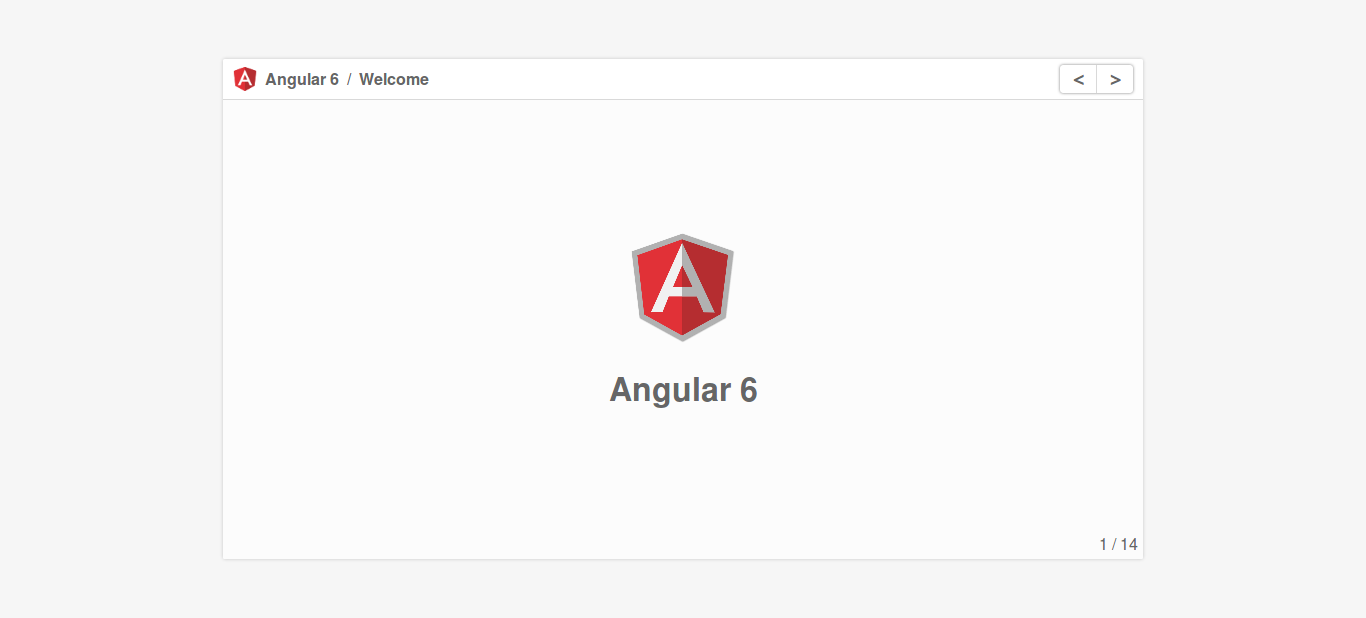
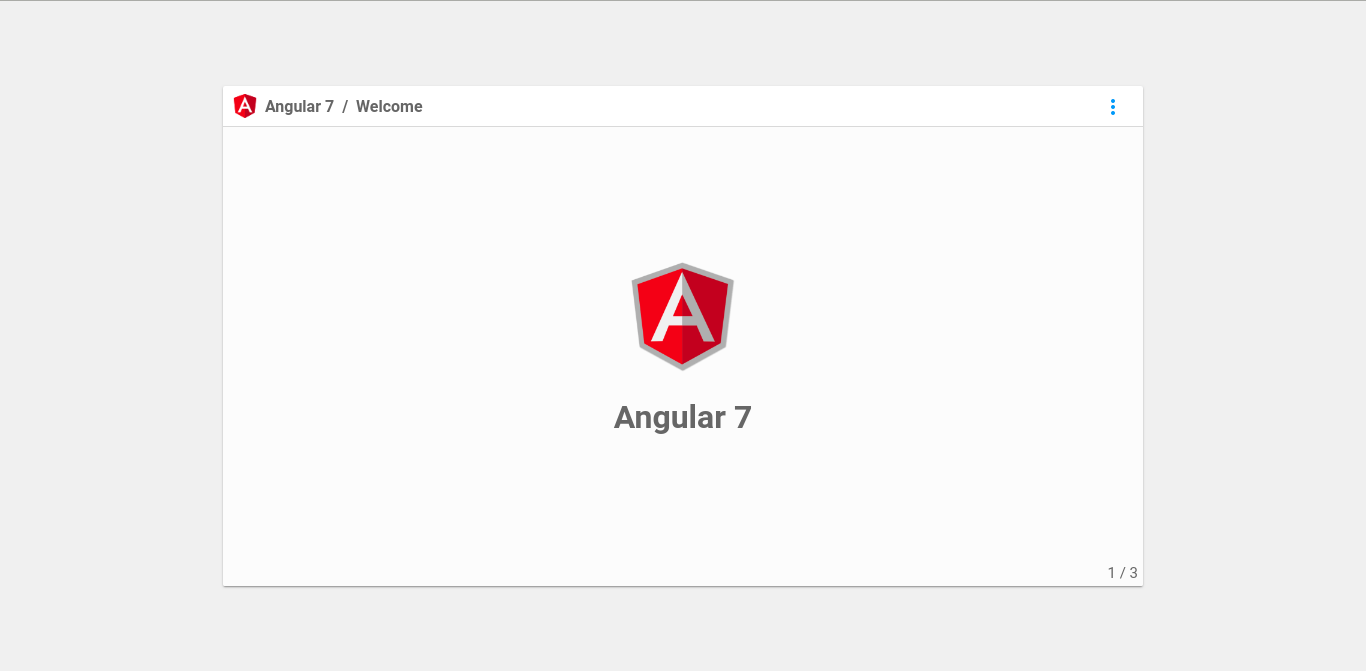
latest build

diff --git a/src/app/app.component.html b/src/app/app.component.html
@@ -5,11 +5,6 @@
             <h1>Angular 7</h1>
         </div>
     </pr-presenter-page>
-    <pr-presenter-page label="Experiments">
-        <div class="content--center" style="height: 100%;flex-direction: column">
-            <button (click)="onDialogHandler()">Dialog</button>
-        </div>
-    </pr-presenter-page>
     <pr-presenter-page label="End">
         <div class="content--center" style="height: 100%;flex-direction: column">
             <h1>THANK YOU</h1>

diff --git a/src/app/app.module.ts b/src/app/app.module.ts
@@ -1,6 +1,6 @@
 import { BrowserModule } from '@angular/platform-browser';
 import { NgModule } from '@angular/core';
-import { PresenterModule } from 'projects/presenter/src/public_api';
+import { PresenterModule } from 'presenter';
 import { AppComponent } from './app.component';
 import { DialogComponent } from './dialog/dialog.component';
 

diff --git a/src/app/app.component.ts b/src/app/app.component.ts
@@ -1,5 +1,5 @@
 import { Component } from '@angular/core';
-import { PrDialog } from 'projects/presenter/src/public_api';
+import { PrDialog } from 'presenter';
 import { DialogComponent } from './dialog/dialog.component';
 
 @Component({
